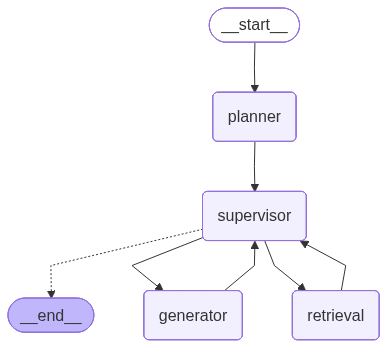
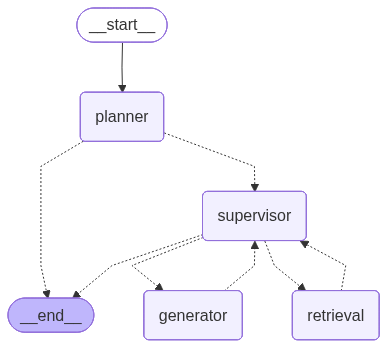
Implemented Redis semantic cache for LLM responses

diff --git a/app/chatbot/chat/services/redis_cache.py b/app/chatbot/chat/services/redis_cache.py
@@ -1,0 +1,116 @@
+import logging
+import time
+from typing import Any, Dict, Optional
+
+from app.core.config_setup import SEMANTIC_CACHE
+
+logger = logging.getLogger(__name__)
+
+class RedisCache:
+    def __init__(self):
+        self.cache = SEMANTIC_CACHE
+        
+    def _detect_intention(self, query: str) -> str:
+        """
+        Detects the intention of the query for caching.
+
+        Args:
+            query (str): The user query.
+
+        Returns:
+            str: The detected intention.
+        """
+        q = query.lower()
+        
+        if any(word in q for word in ["recommend", "should i", "buy", "sell", "is it good to", "advice"]):
+            return "recommendation"
+        
+        if any(word in q for word in ["service", "provide", "offer", "what does", "revenue"]):
+            return "services"
+        
+        if any(tok in q for tok in ["what is", "who is", "overview", "introduce"]):
+            return "overview"
+        
+        if any(tok in q for tok in ["trend", "forecast", "future", "outlook", "analysis"]):
+            return "analysis"
+
+        return "general"
+
+    def get_cached(self, query: str) -> Optional[Dict[str, Any]]:
+        """
+        Returns a cached response if similar embedding exists within the 
+        distance threshold.
+
+        Args:
+            query (str): The user query to search in the cache.
+
+        Returns:
+            Optional[Dict[str, Any]]: The cached response if found, else None.
+        """
+        intent = self._detect_intention(query)
+        
+        try:
+            result = self.cache.check(
+                prompt=query,
+                num_results=1,
+                return_fields=["prompt", "response", "metadata"]
+            )
+        except Exception as e:
+            logger.error("Semantic cache check error: %s", str(e))
+            return None
+        
+        if not result:
+            return None
+        
+        hit = result[0]
+        metadata = hit.get("metadata", {})
+        hit_intent = metadata.get("intent")
+        
+        if hit_intent and hit_intent != intent:
+            logger.debug("Cache intent mismatch.")
+            return None
+        
+        logger.info("Cache hit")
+        
+        return hit
+    
+    def store(
+        self, 
+        query: str, 
+        response: str, 
+        metadata: Optional[Dict[str, Any]] = None
+    ) -> str:
+        """
+        Stores the query-response pair in the cache.
+
+        Args:
+            query (str): The user query.
+            response (str): The response generated by the LLM.
+            metadata (Optional[Dict[str, Any]], optional): Additional metadata to
+                store with the response. Defaults to None.
+
+        Returns:
+            str: The ID of the cached response.
+        """
+        metadata = metadata or {}
+        metadata["intent"] = self._detect_intention(query)
+        metadata["stored_at"] = int(time.time())
+        
+        try:
+            key = self.cache.store(prompt=query, response=response, metadata=metadata)
+        except Exception as e:
+            logger.error("Error storing to cache: %s", str(e))
+            raise
+        
+        logger.info("Stored response in cache with key: %s", key)
+        
+        return key
+    
+    def clear_all(self) -> None:
+        """
+        Clears all entries in the cache.
+        """
+        try:
+            self.cache.clear()
+        except Exception as e:
+            logger.error("Error clearing cache: %s", str(e))

diff --git a/app/chatbot/chat/workflow/graph.py b/app/chatbot/chat/workflow/graph.py
@@ -8,6 +8,7 @@ from app.chatbot.chat.schemas.model import Plan, Supervisor
 from app.chatbot.chat.schemas.state import InputState, OutputState, OverallState
 from app.chatbot.chat.services.mcp_client import MCPClient
 from app.chatbot.chat.services.openai_client import OpenAIClient
+from app.chatbot.chat.services.redis_cache import RedisCache
 from app.chatbot.chat.templates import (
     generate_factual_response,
     planning_prompt,
@@ -27,6 +28,7 @@ class ChatOrchestrator:
         self.openai_client = OpenAIClient()
         self.mcp_manager = MCPClient()
         self.vector_store = QdrantVectorStore()
+        self.cache = RedisCache()
 
     async def planner(self, state: InputState) -> OverallState:
         """
@@ -40,6 +42,17 @@ class ChatOrchestrator:
         """
         try:
             logger.info("[Planner] Planning next steps.")
+            
+            cached = self.cache.get_cached(state["message"])
+            
+            if cached:
+                logger.info("[Planner] Cache hit. Returning cached response.")
+                
+                return {
+                    "response": cached["response"],
+                    "tools_used": cached["metadata"].get("tools_called", []),
+                    "is_cached": True,
+                }
 
             tools_json = await self.mcp_manager.get_tools_json()
             chain = build_chain(planning_prompt(), Plan)
@@ -149,6 +162,8 @@ class ChatOrchestrator:
             )
 
             tool_names, final_output = extract_tool_calls(output["messages"])
+            
+            self.cache.store(state["message"], final_output, {"tools_called": tool_names})
 
             logger.info("[Generator] Response generated.")
 
@@ -165,6 +180,19 @@ class ChatOrchestrator:
                     "tools_used": [],
                 },
             )
+        
+    def planner_route(self, state: OverallState) -> Literal["supervisor", "__end__"]:
+        """
+        Determine the next step after planning.
+        
+        Returns:
+            Literal["supervisor", "__end__"]: The next step after planning.
+        """
+        if state.get("is_cached") == True:
+            return "__end__"
+
+        return "supervisor"
+        
 
     def build_graph(self) -> StateGraph:
         """
@@ -183,7 +211,7 @@ class ChatOrchestrator:
         graph.add_node("generator", self.generator)
 
         graph.add_edge(START, "planner")
-        graph.add_edge("planner", "supervisor")
+        graph.add_conditional_edges("planner", self.planner_route)
         graph.add_edge("supervisor", END)
 
         return graph.compile()

diff --git a/app/core/config_setup.py b/app/core/config_setup.py
@@ -1,9 +1,11 @@
+import redis.asyncio as redis
 from langchain_openai.chat_models import AzureChatOpenAI
 from langchain_openai.embeddings import AzureOpenAIEmbeddings
 from qdrant_client import AsyncQdrantClient
+from redisvl.extensions.cache.llm import SemanticCache
+from redisvl.utils.vectorize import AzureOpenAITextVectorizer
 
 from app.core.config import settings
-import redis.asyncio as redis
 
 # Initialize Azure OpenAI chat model
 CHAT_MODEL = AzureChatOpenAI(
@@ -31,8 +33,30 @@ QDRANT_CLIENT = AsyncQdrantClient(
     api_key=settings.QDRANT_API_KEY.get_secret_value(),
 )
 
+# Initialize Redis
+REDIS = redis.from_url(settings.REDIS_URL)
+
+# Initialize Azure OpenAI Text Vectorizer
+API_CONFIG = {
+    "azure_endpoint": settings.AZURE_OPENAI_ENDPOINT,
+    "api_key": settings.AZURE_OPENAI_API_KEY.get_secret_value(),
+    "api_version": settings.AZURE_OPENAI_EMBEDDING_API_VERSION
+}
+
+AZURE_VECTORIZER = AzureOpenAITextVectorizer(
+    model=settings.AZURE_OPENAI_EMBEDDING_DEPLOYMENT,
+    api_config=API_CONFIG,
+    dtype=settings.VECTORIZER_DTYPE,
+)
+
 # Initialize Redis Semantic Cache
-REDIS_CACHE = redis.from_url(settings.REDIS_URL)
+SEMANTIC_CACHE = SemanticCache(
+    name=settings.CACHE_NAME,
+    redis_url=settings.REDIS_URL,
+    ttl=settings.CACHE_TTL,                       
+    distance_threshold=settings.CACHE_DISTANCE_THRESHOLD,
+    vectorizer=AZURE_VECTORIZER,
+)
 
 # MCP Server Configurations
 MCP_SERVERS = {

diff --git a/app/routers/health.py b/app/routers/health.py
@@ -3,7 +3,7 @@ import logging
 from fastapi import APIRouter, Depends, HTTPException, status
 
 from app.chatbot.ingestion.services.vector_store import QdrantVectorStore
-from app.core.config_setup import REDIS_CACHE
+from app.core.config_setup import REDIS
 from app.chatbot.chat.services.openai_client import OpenAIClient
 
 logger = logging.getLogger(__name__)
@@ -52,7 +52,7 @@ async def redis_health() -> dict[str, str]:
         HTTPException: 503 Service Unavailable if the database cannot be reached.
     """
     try:
-        cache = REDIS_CACHE
+        cache = REDIS
         await cache.ping()
 
         return {"status": "Healthy"}

diff --git a/app/routers/chat.py b/app/routers/chat.py
@@ -36,8 +36,7 @@ async def chat_response(
         logger.info(f"Processing chat request")
         graph = orchestrator.build_graph()
         output = await graph.ainvoke(
-            {"user_id": request.user_id, "message": request.message},
-            config={"recursion_limit": 10},
+            {"user_id": request.user_id, "message": request.message}
         )
 
         logger.info("Response generated successfully")

diff --git a/app/core/config.py b/app/core/config.py
@@ -22,6 +22,10 @@ class Settings(BaseSettings):
 
     # Cache
     REDIS_URL: str
+    VECTORIZER_DTYPE: str = "float32"
+    CACHE_NAME: str = "llm_cache"
+    CACHE_TTL: int = 300
+    CACHE_DISTANCE_THRESHOLD: float = 0.1
 
     # Vector Database
     QDRANT_URL: str

diff --git a/app/chatbot/chat/schemas/state.py b/app/chatbot/chat/schemas/state.py
@@ -21,3 +21,4 @@ class OverallState(InputState, OutputState):
     tools: Optional[str]
     retrieved_docs: Optional[str]
     tools_used: Optional[List[str]]
+    is_cached: bool = False

diff --git a/README.md b/README.md
@@ -31,7 +31,7 @@ Built with **FastAPI**, **LangChain**, and **LangGraph**, it leverages **OpenAI*
 
 | Node        | Description                                                                                                   |
 |-------------|--------------------------------------------------------------------------------------------------------------|
-| **planner**     | Analyzes the user's query and generates a step-by-step plan, determining required tools or retrieval actions. |
+| **planner**     | Analyzes the user's query and generates a step-by-step plan, determining required tools or retrieval actions. If a cached is hit in the semantic cache, the planner will directly terminate the workflow by returning the cached response. |
 | **supervisor**  | Dynamically routes the workflow by deciding the next node to execute based on the current state and plan.     |
 | **retrieval**   | Retrieves relevant documents from the vector store (**Qdrant**) as per the user's query or plan.              |
 | **generator**   | Produces the final response by combining LLM reasoning, tool outputs, and retrieved documents.                |
